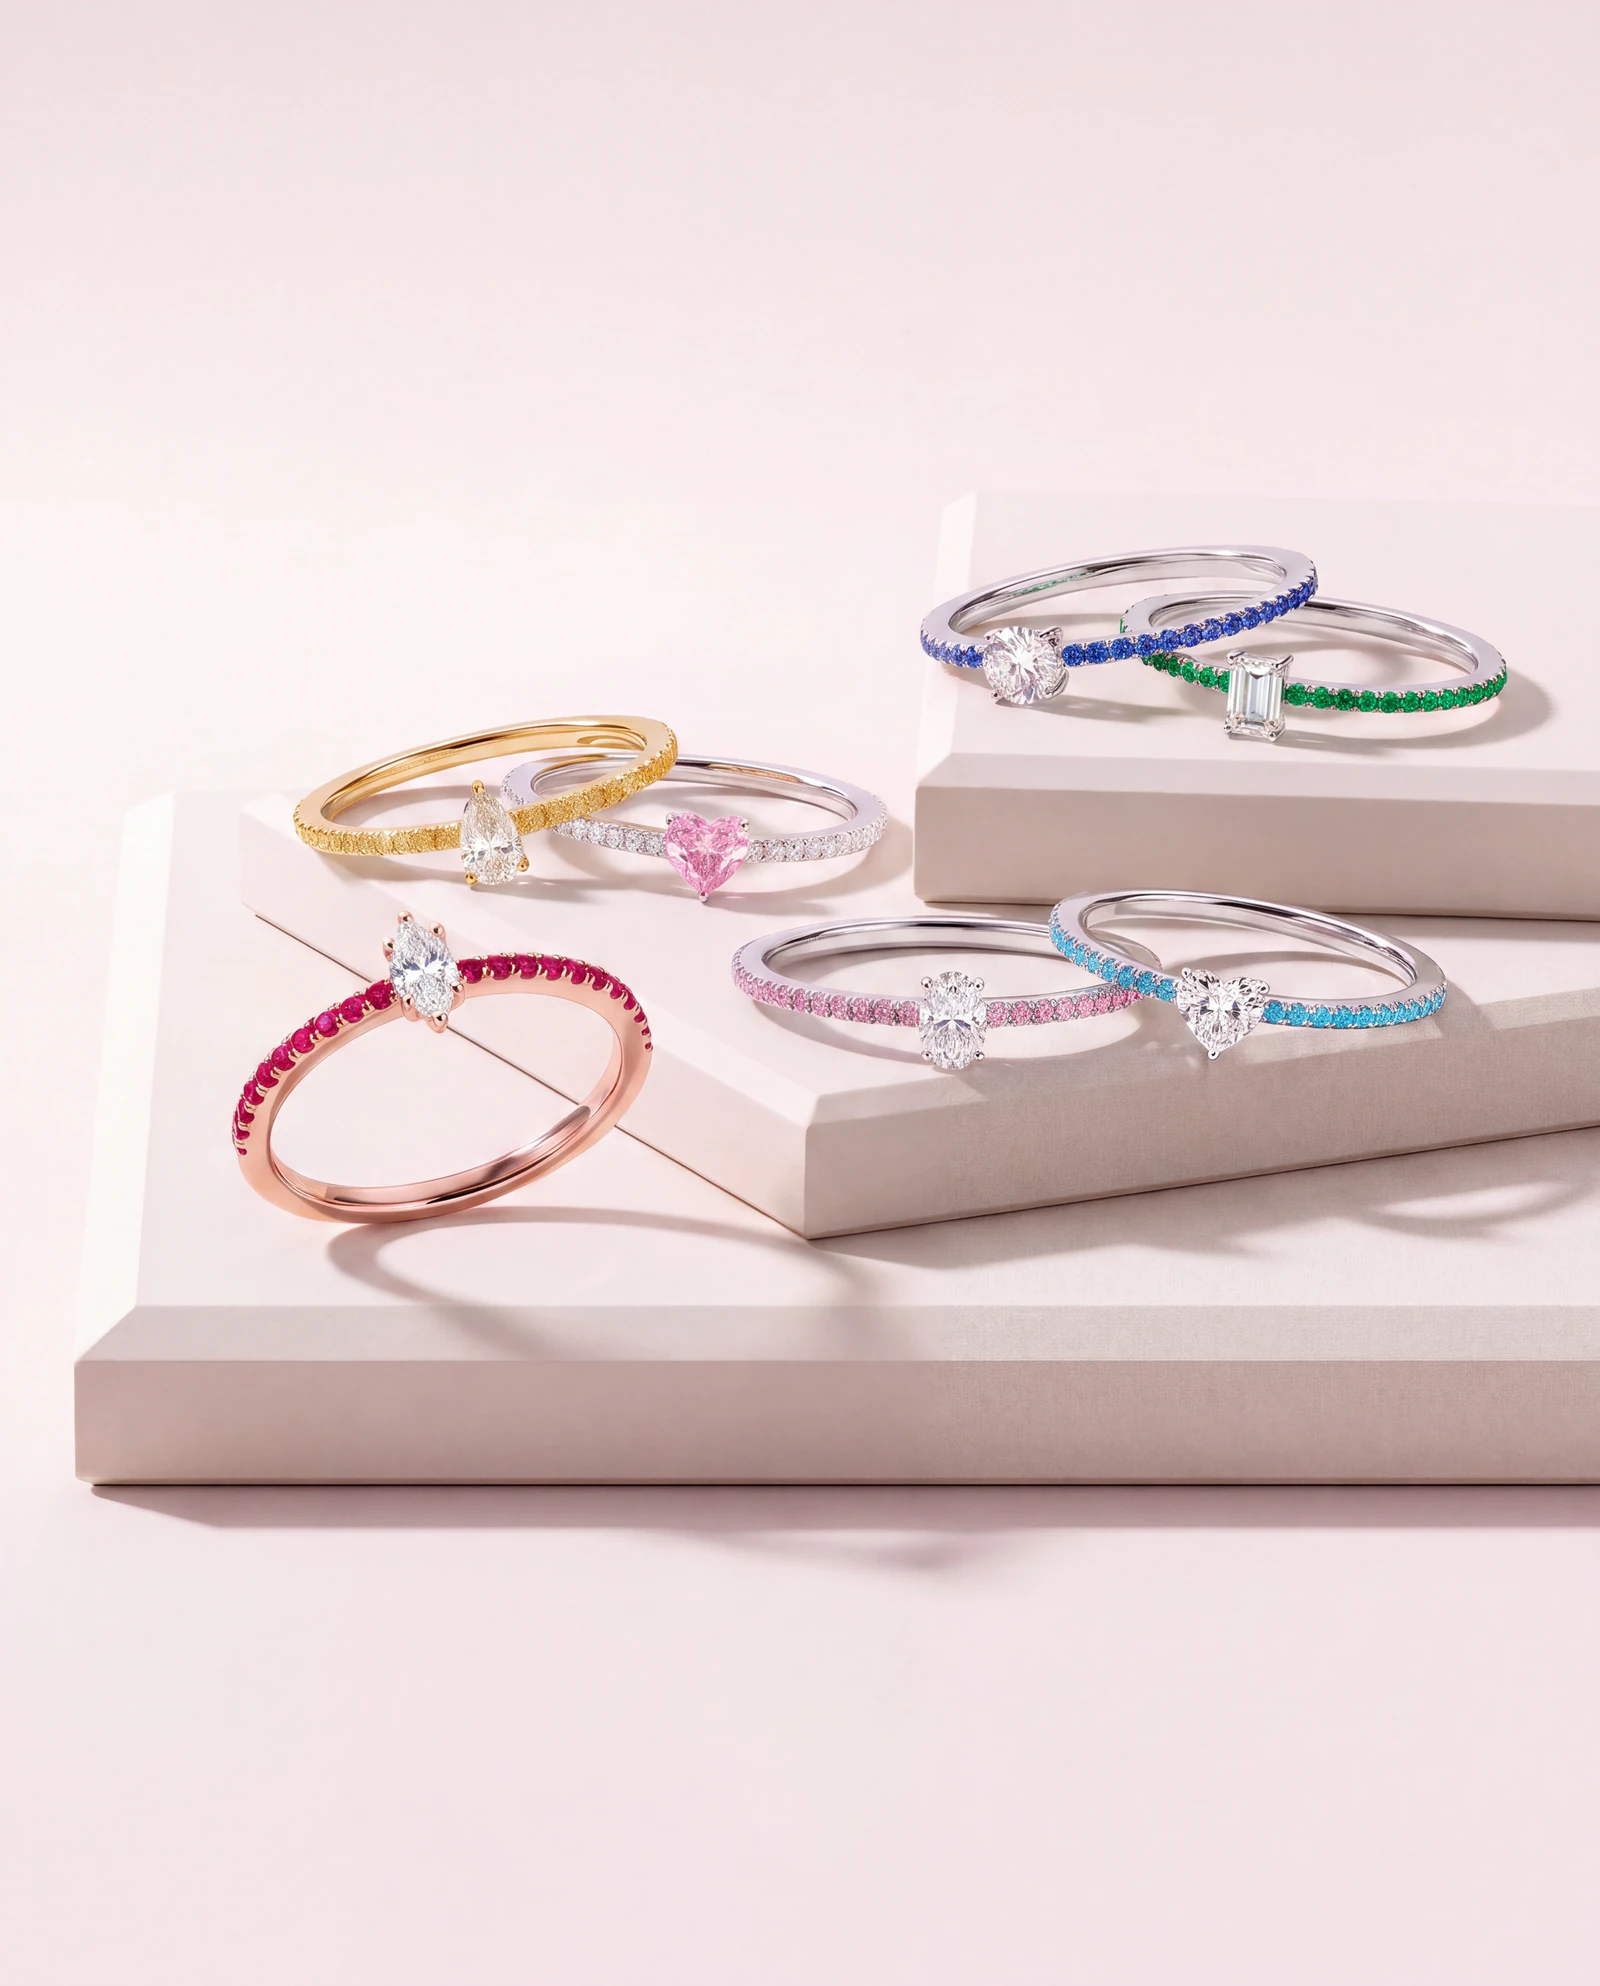
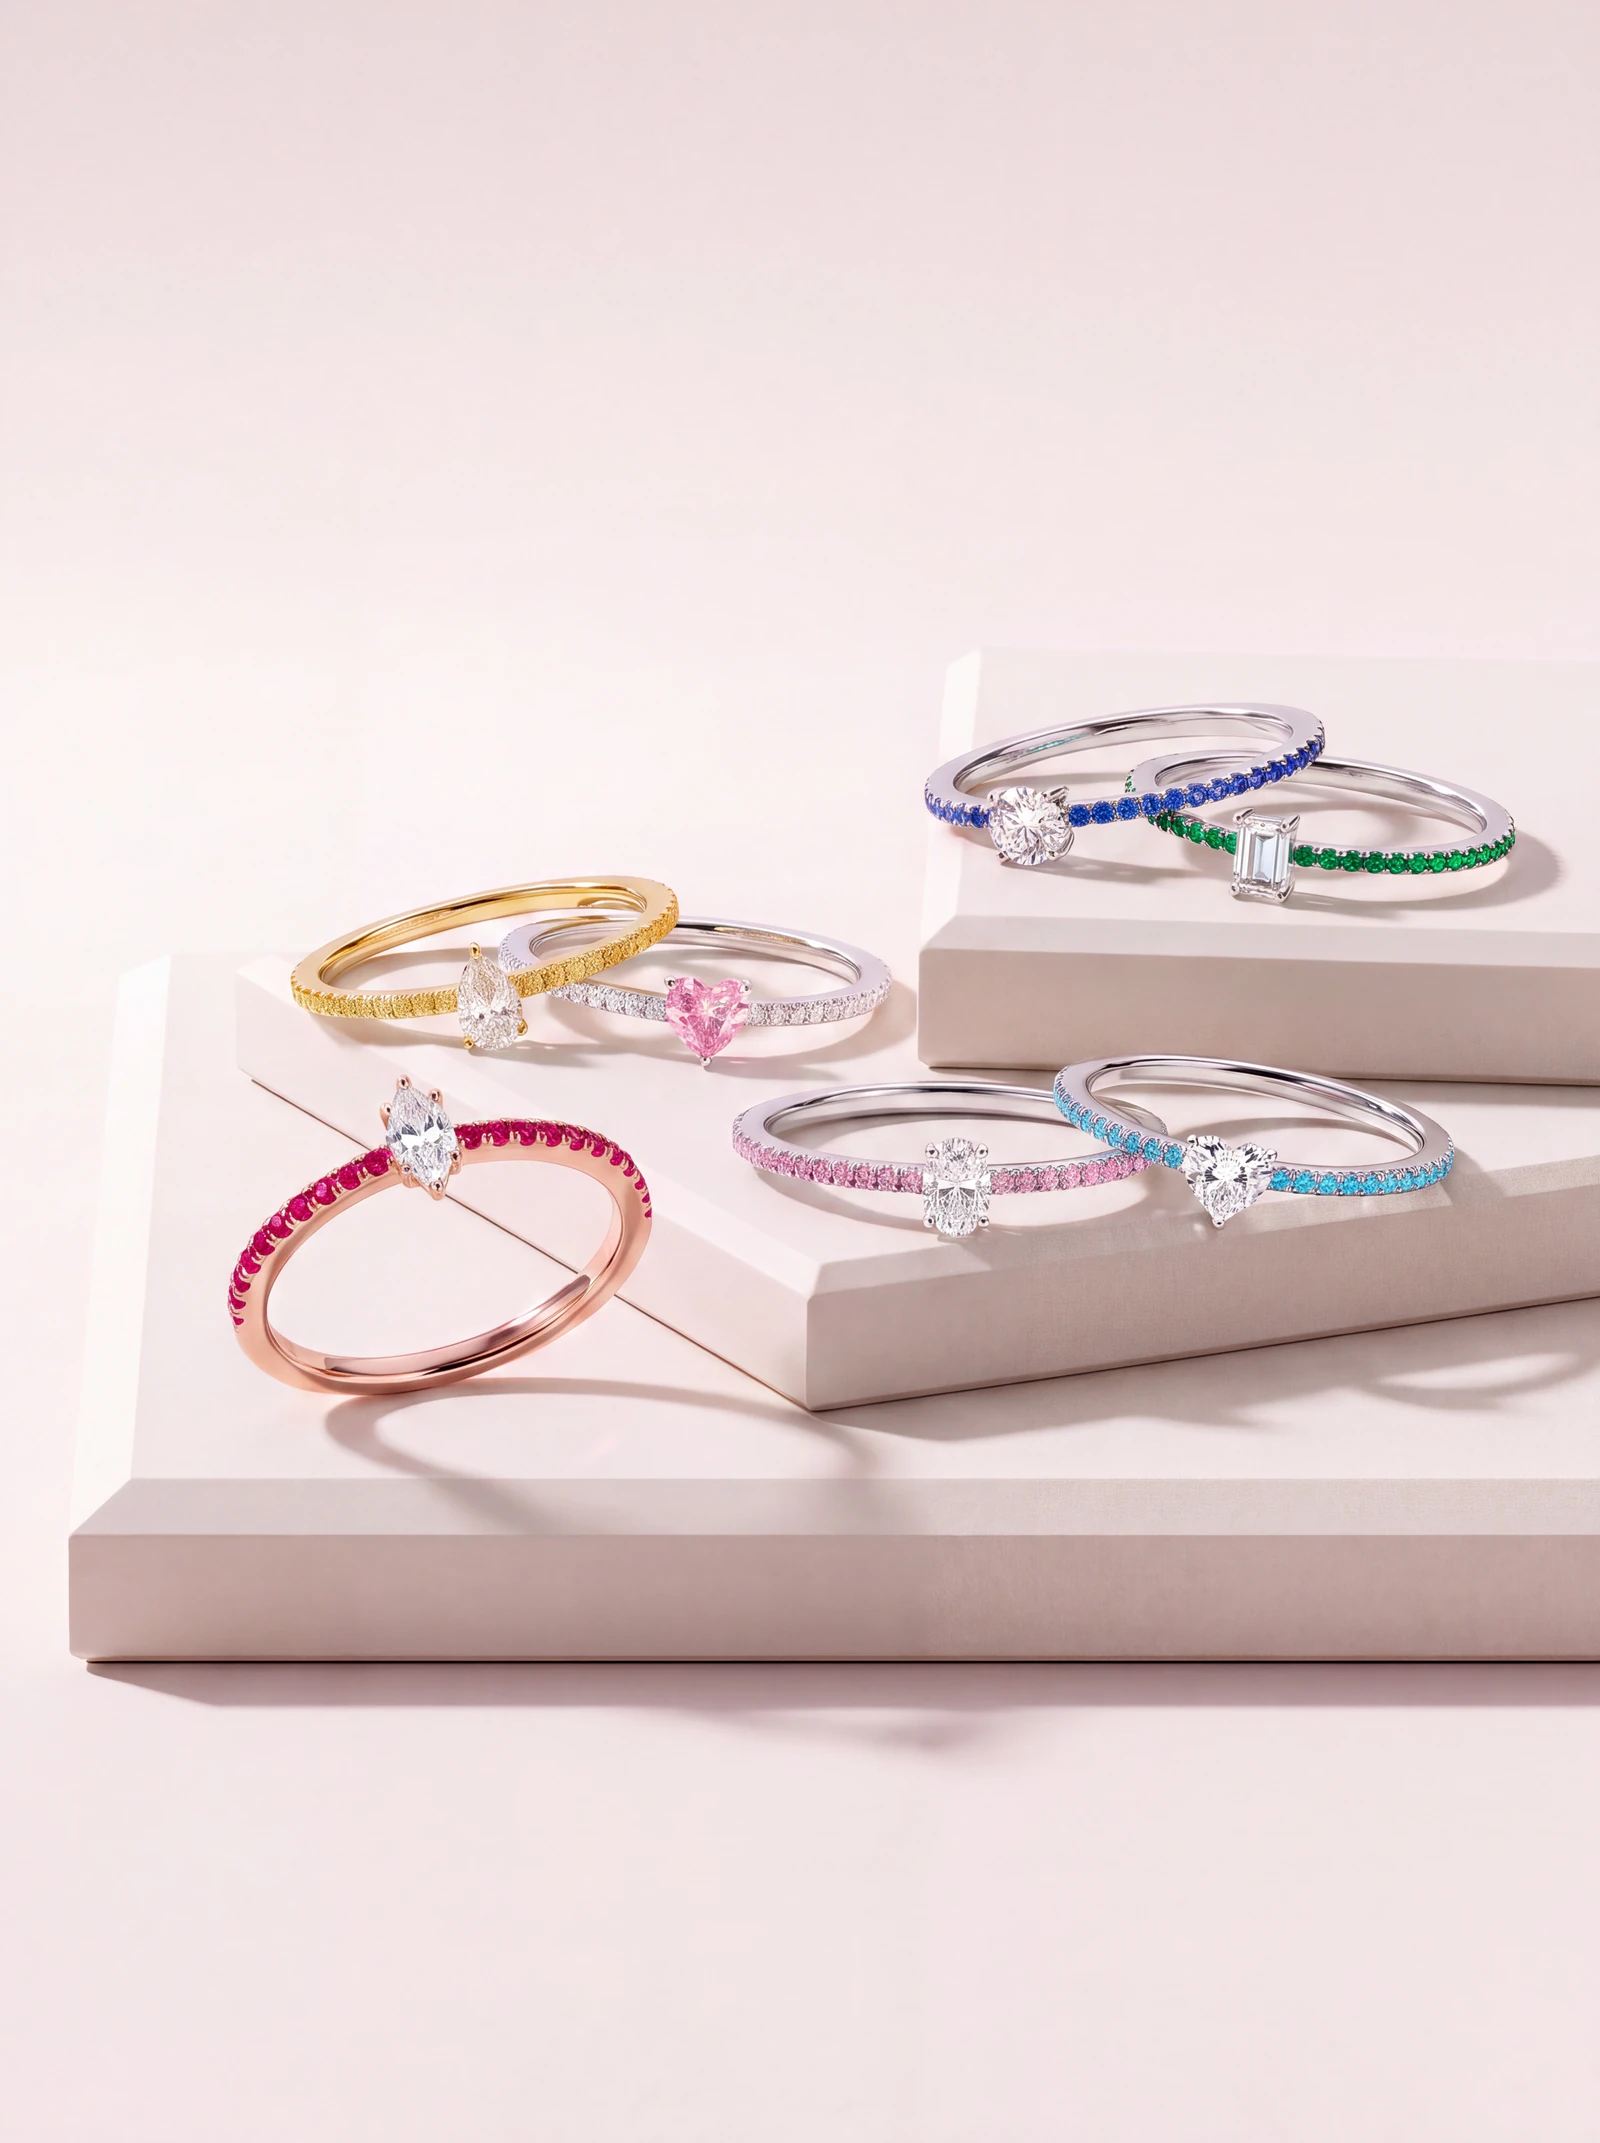
Make mobile hero full screen

Changed region(s): [[0.0312, 0.2497, 1.0, 0.8429]]

diff --git a/app/globals.css b/app/globals.css
@@ -222,14 +222,14 @@ footer { padding: 75px 5vw 24px; background: var(--paper); display: grid; grid-t
   .mobile-bag .ui-bag, .menu-bag .ui-bag { width: 23px; height: 23px; }
   .wordmark { font-size: 23px; }
   .hero { min-height: 100svh; background: var(--porcelain); }
-  .hero-art { inset: 0 0 auto; height: 56svh; }
-  .hero-art img { object-position: center 54%; }
-  .hero-shade { background: linear-gradient(0deg, var(--porcelain) 0 43%, oklch(98.2% .008 35 / .86) 49%, transparent 62%); }
-  .hero-copy { width: auto; padding: 0 20px 34px; }
+  .hero-art { inset: 0; height: 100%; }
+  .hero-art img { object-position: center center; }
+  .hero-shade { background: linear-gradient(180deg, oklch(98.2% .008 35 / .94) 0, oklch(98.2% .008 35 / .76) 24%, oklch(98.2% .008 35 / .22) 44%, transparent 58%), linear-gradient(0deg, oklch(98.2% .008 35 / .2), transparent 22%); }
+  .hero-copy { position: absolute; inset: 0 0 auto; width: auto; padding: 96px 20px 0; }
   .eyebrow { margin-bottom: 18px; font-size: 8px; line-height: 1.5; }
-  h1 { font-size: clamp(47px, 12.7vw, 58px); line-height: .94; margin-bottom: 20px; }
+  h1 { font-size: clamp(44px, 12vw, 54px); line-height: .94; margin-bottom: 18px; }
   .hero-description { font-size: 13px; max-width: 340px; }
-  .hero-actions { margin-top: 27px; gap: 20px; flex-wrap: wrap; }
+  .hero-actions { margin-top: 23px; gap: 18px; flex-wrap: wrap; }
   .button { min-height: 49px; padding: 0 18px; font-size: 8px; }
   .text-link { font-size: 8px; }
   .scroll-cue { display: none; }
